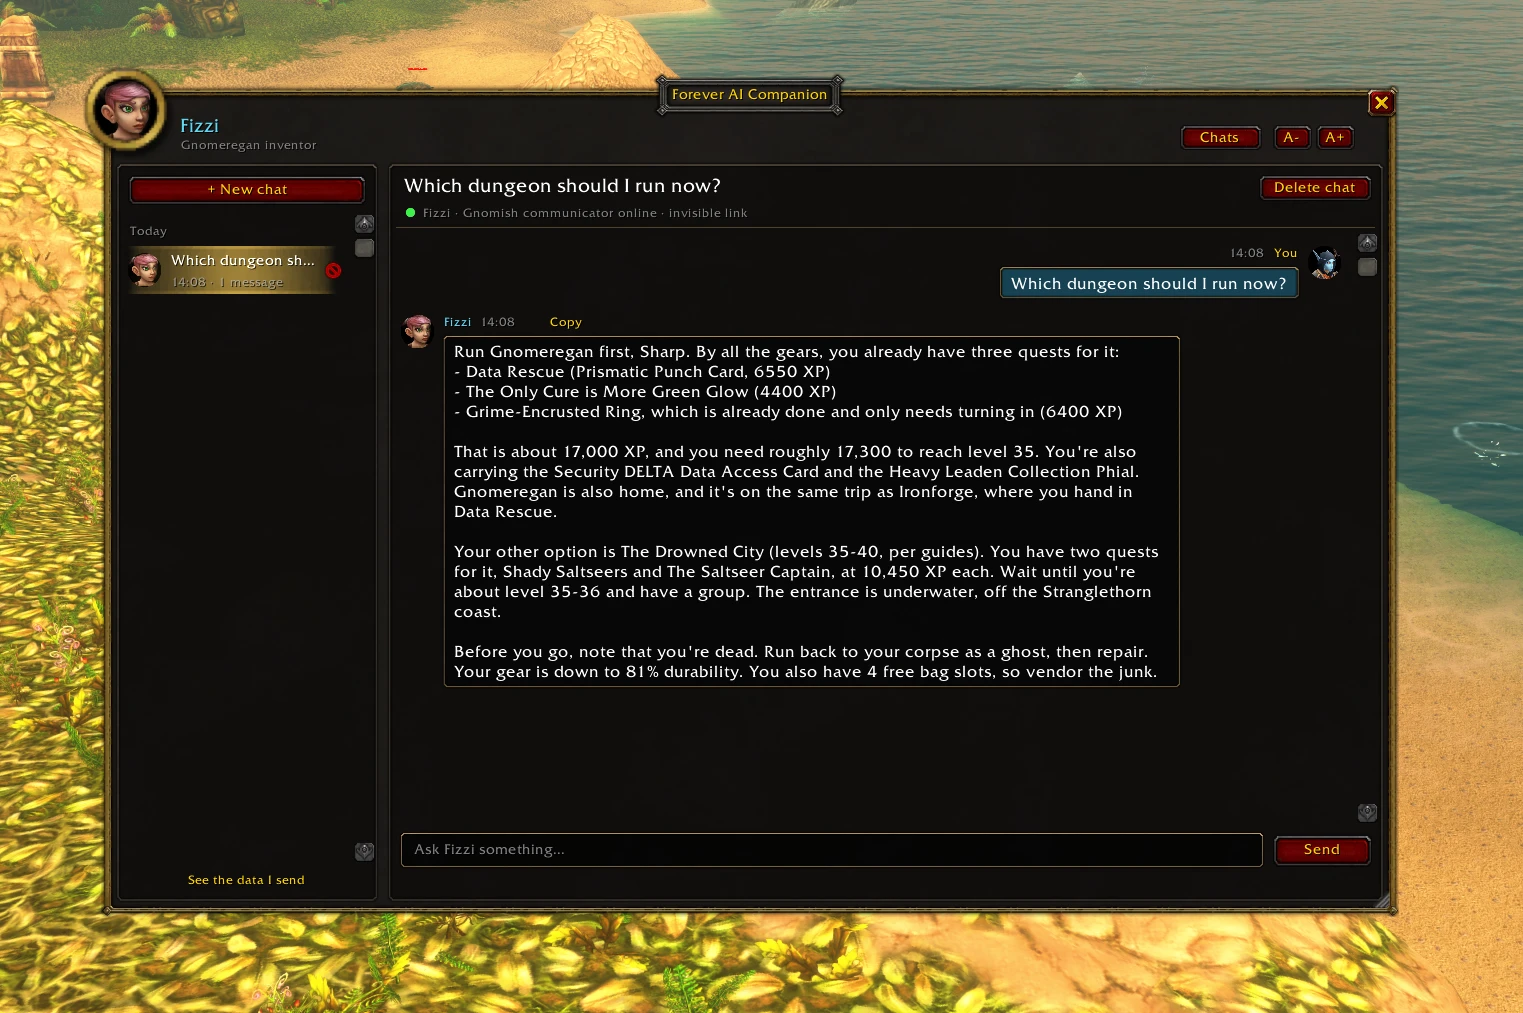
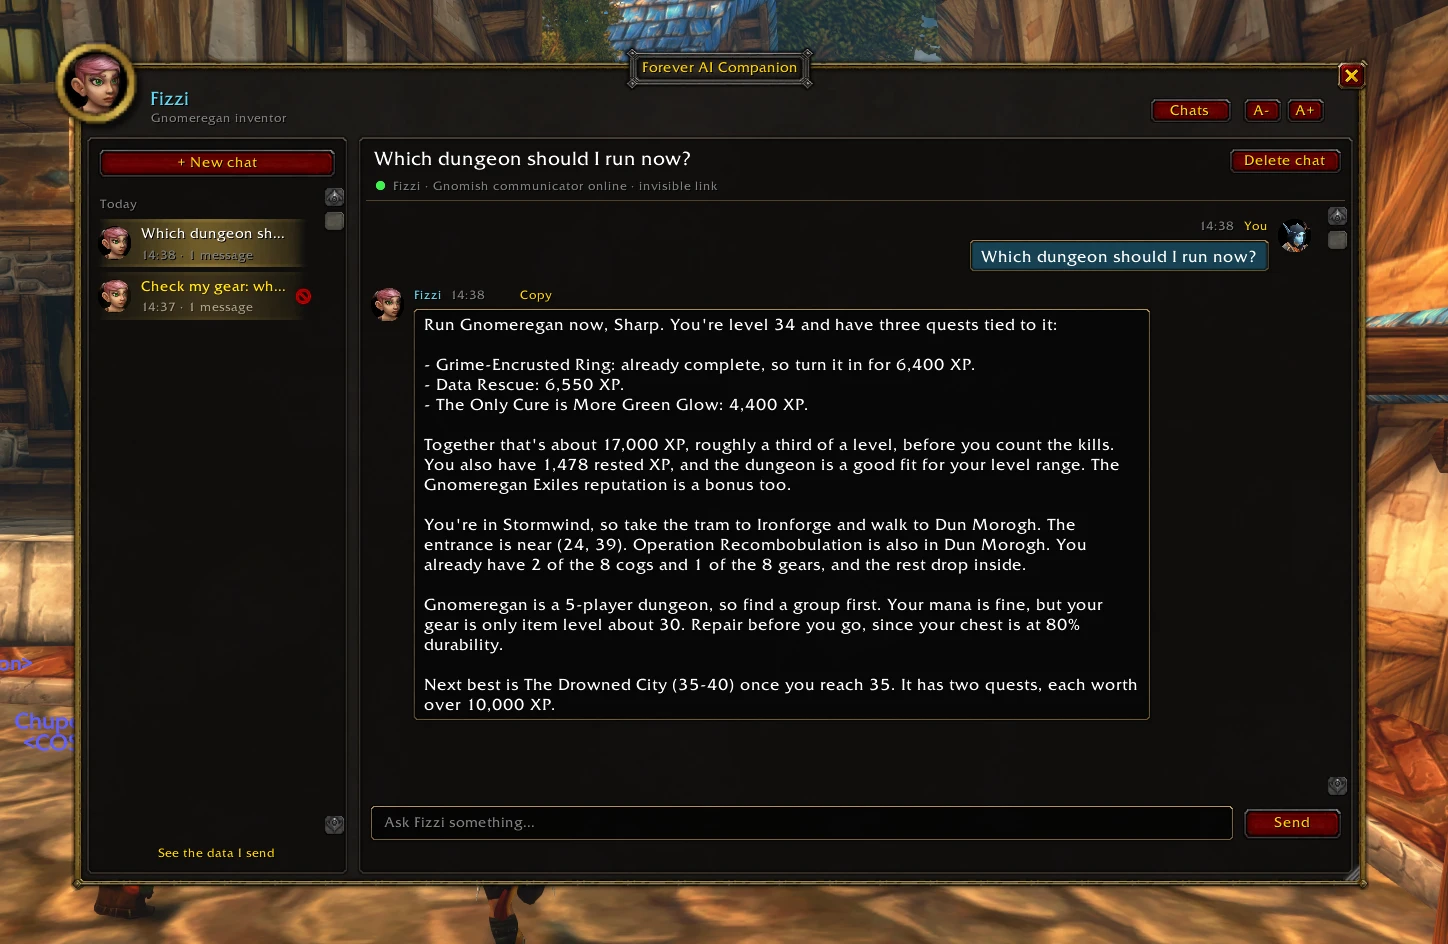
README: better in-game screenshot

diff --git a/README.md b/README.md
@@ -16,9 +16,9 @@
 <p align="center"><sub>English and Spanish · Inglés y español</sub></p>
 
 <p align="center">
-  <img src="docs/in-game-chat.webp" width="900" alt="The Forever AI Companion window in WoW Forever: asked which dungeon to run, Fizzi suggests Gnomeregan using the player's own quests, experience, items and gear durability">
+  <img src="docs/in-game-chat.webp" width="900" alt="The Forever AI Companion window in WoW Forever: asked which dungeon to run, Fizzi suggests Gnomeregan using the player's level, quests, rested experience, location, bags and gear durability">
   <br>
-  <sub>Asking Fizzi which dungeon to run: the answer uses your own quests, experience, bags and gear.</sub>
+  <sub>Asking Fizzi which dungeon to run: the answer uses your own level, quests, location, bags and gear.</sub>
 </p>
 
 ---
